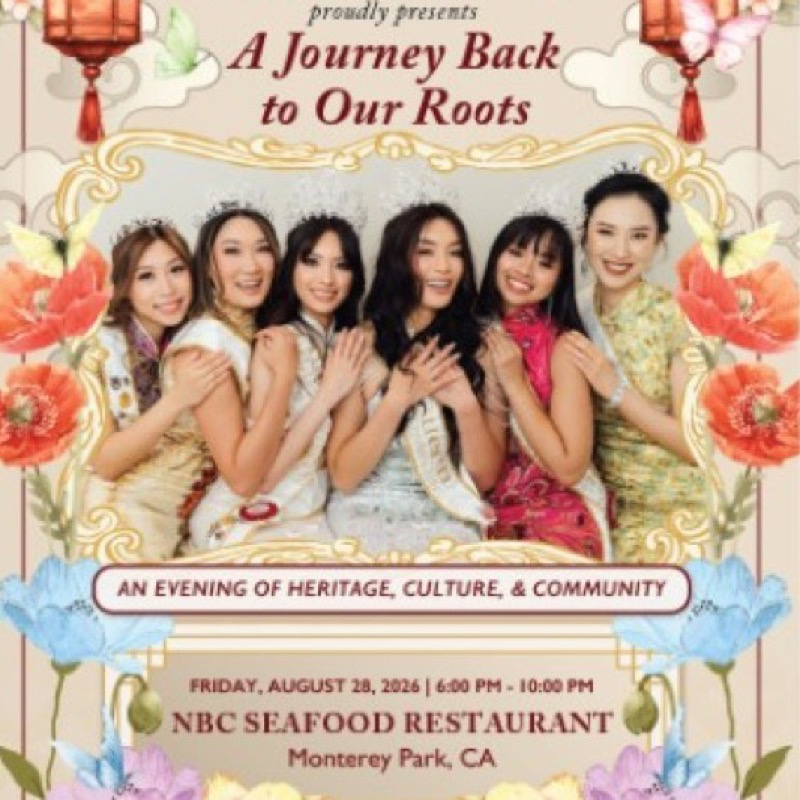
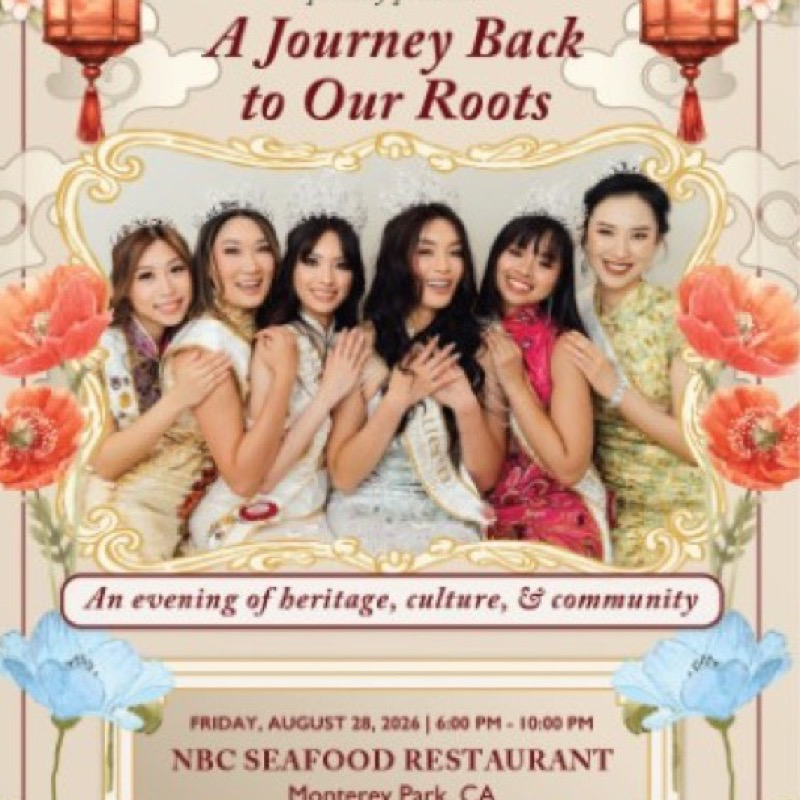
Feature brochure V4 and archive the denser V3 draft.

diff --git a/work/miss-chinatown-brochure/index.html b/work/miss-chinatown-brochure/index.html
@@ -32,24 +32,24 @@
       <a class="project-back" href="../../index.html#work">&larr; All work</a>
       <p class="project-cat">Print Design</p>
       <h1 class="project-title">Miss Los Angeles Chinatown Brochure</h1>
-      <p class="project-intro">A heritage fundraiser trifold for the Miss Los Angeles Chinatown Court 2026&mdash;<em>A Journey Back to Our Roots</em>. Cream, gold, lanterns, and butterflies carry the flier&rsquo;s hierarchy into print. Open the cover, flip the spread, and read every panel&mdash;including sponsor logos and an Unlimited Design Co. credit on the acknowledgements panel.</p>
+      <p class="project-intro">A heritage fundraiser trifold for the Miss Los Angeles Chinatown Court 2026&mdash;<em>A Journey Back to Our Roots</em>. Cream, gold, lanterns, and florals carry the flier&rsquo;s hierarchy into print&mdash;pared down so the type and court photos can breathe. Open the cover, flip the spread, and read every panel, including sponsor logos and an Unlimited Design Co. credit.</p>
     </header>
 
     <div class="project-body">
-      <!-- ===================== V3 FEATURED ===================== -->
+      <!-- ===================== V4 FEATURED ===================== -->
       <section class="brochure-feature container" aria-label="Current brochure">
         <div class="brochure-version-label">
           <span class="brochure-version-pill">Current</span>
-          <span>Version 3 &mdash; featured trifold</span>
+          <span>Version 4 &mdash; featured trifold</span>
         </div>
 
         <div
           class="brochure-viewer brochure-viewer--featured"
           data-outside="../../assets/work/miss-chinatown-brochure/outside.png"
           data-inside="../../assets/work/miss-chinatown-brochure/inside.png"
-          data-alt-cover="Front cover of the Miss Los Angeles Chinatown brochure, version 3."
-          data-alt-inside="Inside of the Miss Los Angeles Chinatown brochure version 3: the journey, evening program and menu, and the 2026 court."
-          data-alt-outside="Outside of the Miss Los Angeles Chinatown brochure version 3: about the pageant, acknowledgements with sponsors, and front cover."
+          data-alt-cover="Front cover of the Miss Los Angeles Chinatown brochure, version 4."
+          data-alt-inside="Inside of the Miss Los Angeles Chinatown brochure version 4: the journey, evening program and menu, and the 2026 court."
+          data-alt-outside="Outside of the Miss Los Angeles Chinatown brochure version 4: about us, acknowledgements with sponsors, and front cover."
         >
           <div class="brochure-deck" data-state="cover">
             <div class="brochure-stage brochure-stage--cover" data-panel="cover">
@@ -64,7 +64,7 @@
             </div>
 
             <div class="brochure-stage brochure-stage--open" data-panel="open" hidden>
-              <div class="brochure-card" role="group" aria-label="Interactive Miss Los Angeles Chinatown brochure, version 3">
+              <div class="brochure-card" role="group" aria-label="Interactive Miss Los Angeles Chinatown brochure, version 4">
                 <div class="brochure-face" data-face="inside">
                   <img data-src-inside alt="" draggable="false" width="1600" height="981" />
                   <div class="brochure-creases" aria-hidden="true"></div>
@@ -93,20 +93,7 @@
           </div>
           <p class="brochure-hint" data-brochure-hint>Open the cover to step inside&mdash;then drag or flip to turn it over.</p>
 
-          <p class="brochure-pdf">
-            <a
-              class="brochure-btn brochure-btn--solid"
-              href="../../assets/work/miss-chinatown-brochure/MISS-CHINTOWN_BROCHURE_V3.pdf"
-              download="MISS-CHINTOWN_BROCHURE_V3.pdf"
-              target="_blank"
-              rel="noopener noreferrer"
-            >
-              Download PDF for markup
-            </a>
-            <span class="brochure-pdf__note">Full Version 3 print file &mdash; easy to annotate and share</span>
-          </p>
-
-          <dialog class="brochure-lightbox" aria-label="Brochure reader, version 3">
+          <dialog class="brochure-lightbox" aria-label="Brochure reader, version 4">
             <div class="brochure-lightbox__bar">
               <button type="button" class="brochure-btn" data-lightbox-view="cover">Cover</button>
               <button type="button" class="brochure-btn" data-lightbox-view="inside">Inside</button>
@@ -130,21 +117,104 @@
         <div class="project-section-copy">
           <h2 class="project-section-title">Designed to unfold</h2>
           <div class="project-section-text">
-            <p>The outside opens with pageant history and 2026 Court accomplishments, thanks sponsors on the acknowledgements panel, and closes on a keepsake front cover&mdash;gold filigree, lanterns, and the Court framed for the gala. An Unlimited Design Co. credit and QR sit at the foot of the acknowledgements panel.</p>
-            <p>Inside: the journey narrative and Castelar benefit, a split evening program and banquet menu, and court introductions with portraits.</p>
+            <p>The outside opens with pageant history and 2026 Court accomplishments, thanks sponsors on the acknowledgements panel, and closes on a keepsake front cover&mdash;gold filigree, lanterns, and the Court framed for the gala. An Unlimited Design Co. credit and QR sit with the sponsors.</p>
+            <p>Inside: the journey narrative and Castelar benefit, a split evening program and banquet menu, and court introductions with portraits. This version pares back decorative overlays so the story stays readable.</p>
           </div>
           <ul class="project-section-list">
             <li><strong>Client</strong> Miss Los Angeles Chinatown / Chinese Chamber of Commerce of Los Angeles</li>
             <li><strong>Studio</strong> Unlimited Design Co.</li>
             <li><strong>Format</strong> Trifold brochure &middot; outside &amp; inside spreads</li>
             <li><strong>Event</strong> Heritage Fundraiser Gala &middot; August 28, 2026</li>
-            <li><strong>PDF</strong> <a href="../../assets/work/miss-chinatown-brochure/MISS-CHINTOWN_BROCHURE_V3.pdf" download="MISS-CHINTOWN_BROCHURE_V3.pdf" target="_blank" rel="noopener noreferrer">Download Version 3 for markup</a></li>
           </ul>
         </div>
       </section>
 
       <!-- ===================== EARLIER VERSIONS ===================== -->
       <section class="brochure-archive container" id="earlier-versions" aria-label="Earlier brochure versions">
+        <details class="brochure-archive__details">
+          <summary class="brochure-archive__summary">
+            <span class="brochure-version-pill brochure-version-pill--muted">Version 3</span>
+            <span class="brochure-archive__title">Pre-paredown draft</span>
+            <span class="brochure-archive__hint">Sponsors in &middot; denser decoration</span>
+          </summary>
+
+          <div class="brochure-archive__body">
+            <p class="brochure-archive__note">
+              The version with sponsor logos and studio credit before the decorative cleanup round.
+              <a href="../../assets/work/miss-chinatown-brochure/MISS-CHINTOWN_BROCHURE_V3.pdf" download="MISS-CHINTOWN_BROCHURE_V3.pdf" target="_blank" rel="noopener noreferrer">Download V3 PDF</a>
+            </p>
+
+            <div
+              class="brochure-viewer brochure-viewer--archive"
+              data-outside="../../assets/work/miss-chinatown-brochure/v3/outside.png"
+              data-inside="../../assets/work/miss-chinatown-brochure/v3/inside.png"
+              data-alt-cover="Front cover of the Miss Los Angeles Chinatown brochure, version 3."
+              data-alt-inside="Inside of the Miss Los Angeles Chinatown brochure version 3."
+              data-alt-outside="Outside of the Miss Los Angeles Chinatown brochure version 3."
+            >
+              <div class="brochure-deck" data-state="cover">
+                <div class="brochure-stage brochure-stage--cover" data-panel="cover">
+                  <button type="button" class="brochure-cover" data-brochure-open aria-label="Open version 3 brochure">
+                    <div class="brochure-cover__sheet">
+                      <img data-src-outside alt="" draggable="false" class="brochure-cover__img" width="1600" height="981" />
+                      <div class="brochure-cover__edge" aria-hidden="true"></div>
+                      <div class="brochure-sheen" aria-hidden="true"></div>
+                    </div>
+                    <span class="brochure-cover__cue">Tap to open</span>
+                  </button>
+                </div>
+
+                <div class="brochure-stage brochure-stage--open" data-panel="open" hidden>
+                  <div class="brochure-card" role="group" aria-label="Interactive Miss Los Angeles Chinatown brochure, version 3">
+                    <div class="brochure-face" data-face="inside">
+                      <img data-src-inside alt="" draggable="false" width="1600" height="981" />
+                      <div class="brochure-creases" aria-hidden="true"></div>
+                      <div class="brochure-sheen" aria-hidden="true"></div>
+                    </div>
+                    <div class="brochure-face brochure-face--back" data-face="outside">
+                      <img data-src-outside data-alt-outside alt="" draggable="false" width="1600" height="981" />
+                      <div class="brochure-creases" aria-hidden="true"></div>
+                      <div class="brochure-sheen" aria-hidden="true"></div>
+                    </div>
+                  </div>
+                </div>
+              </div>
+
+              <div class="brochure-floor" aria-hidden="true"></div>
+
+              <div class="brochure-controls">
+                <button type="button" class="brochure-btn brochure-btn--solid" data-brochure-primary>Open the brochure</button>
+                <button type="button" class="brochure-btn" data-brochure-close hidden>Close</button>
+                <div class="brochure-dots" role="tablist" aria-label="Version 3 brochure views">
+                  <button type="button" class="brochure-dot" data-view="cover" aria-pressed="true">Front Cover</button>
+                  <button type="button" class="brochure-dot" data-view="inside" aria-pressed="false">Inside</button>
+                  <button type="button" class="brochure-dot" data-view="outside" aria-pressed="false">Outside</button>
+                </div>
+                <button type="button" class="brochure-btn brochure-btn--ghost" data-brochure-zoom>Read up close</button>
+              </div>
+              <p class="brochure-hint" data-brochure-hint>Open the cover to step inside&mdash;then drag or flip to turn it over.</p>
+
+              <dialog class="brochure-lightbox" aria-label="Brochure reader, version 3">
+                <div class="brochure-lightbox__bar">
+                  <button type="button" class="brochure-btn" data-lightbox-view="cover">Cover</button>
+                  <button type="button" class="brochure-btn" data-lightbox-view="inside">Inside</button>
+                  <button type="button" class="brochure-btn" data-lightbox-view="outside">Outside</button>
+                  <button type="button" class="brochure-btn" data-lightbox-zoom-out aria-label="Zoom out">&minus;</button>
+                  <span class="brochure-btn brochure-btn--label" data-lightbox-zoom-label>100%</span>
+                  <button type="button" class="brochure-btn" data-lightbox-zoom-in aria-label="Zoom in">+</button>
+                  <button type="button" class="brochure-btn brochure-btn--solid" data-lightbox-close>Close</button>
+                </div>
+                <div class="brochure-lightbox__scroll">
+                  <img class="brochure-lightbox__img" data-lightbox-img alt="" draggable="false" />
+                  <div class="brochure-lightbox__cover" data-lightbox-cover hidden>
+                    <img alt="Front cover of the Miss Los Angeles Chinatown brochure, version 3." draggable="false" width="1600" height="981" />
+                  </div>
+                </div>
+              </dialog>
+            </div>
+          </div>
+        </details>
+
         <details class="brochure-archive__details">
           <summary class="brochure-archive__summary">
             <span class="brochure-version-pill brochure-version-pill--muted">Version 2</span>
